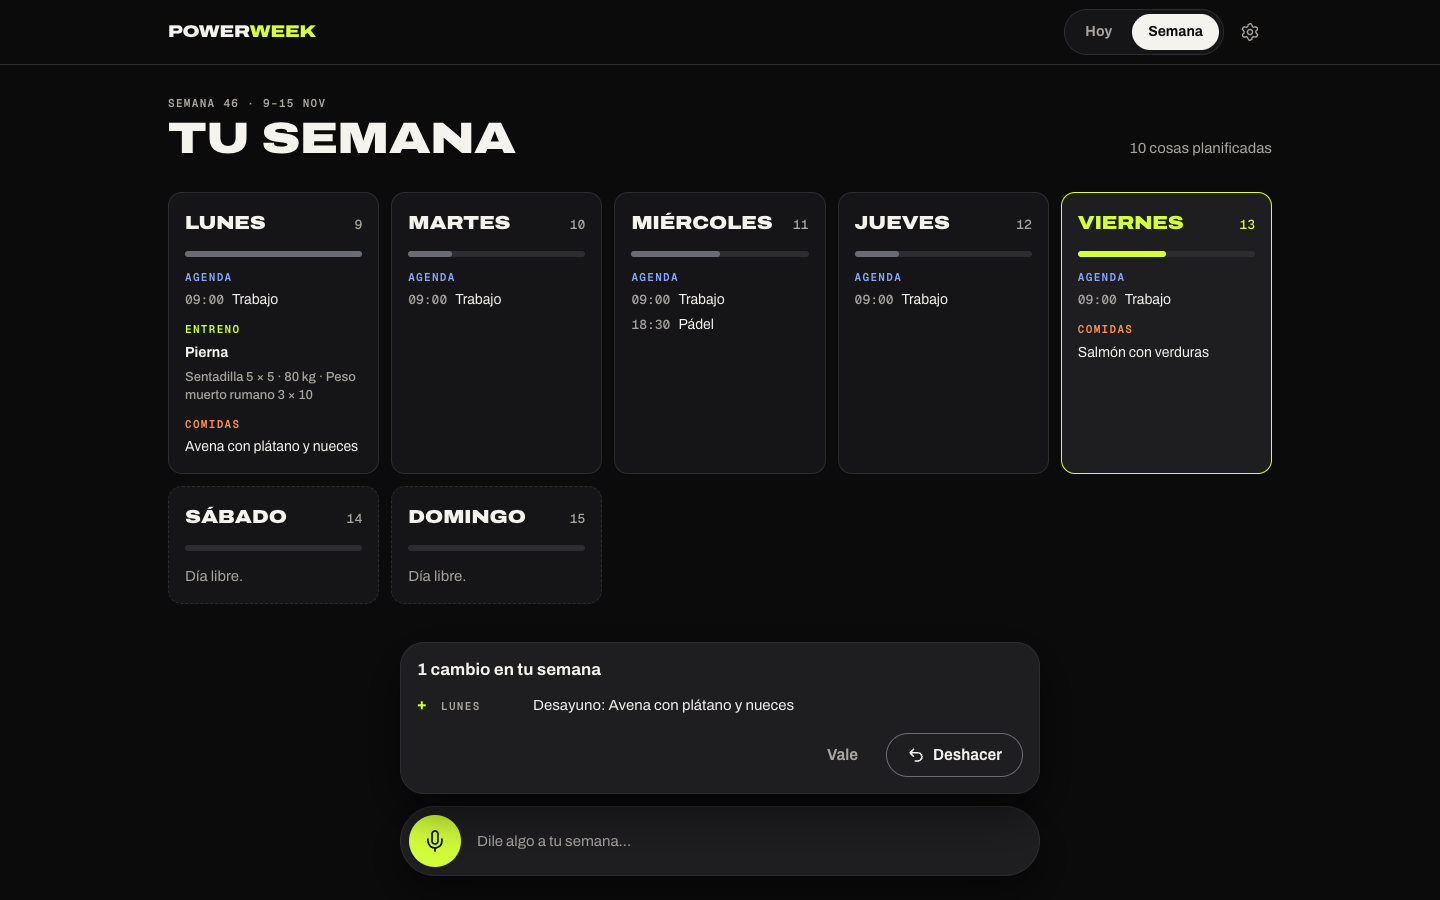
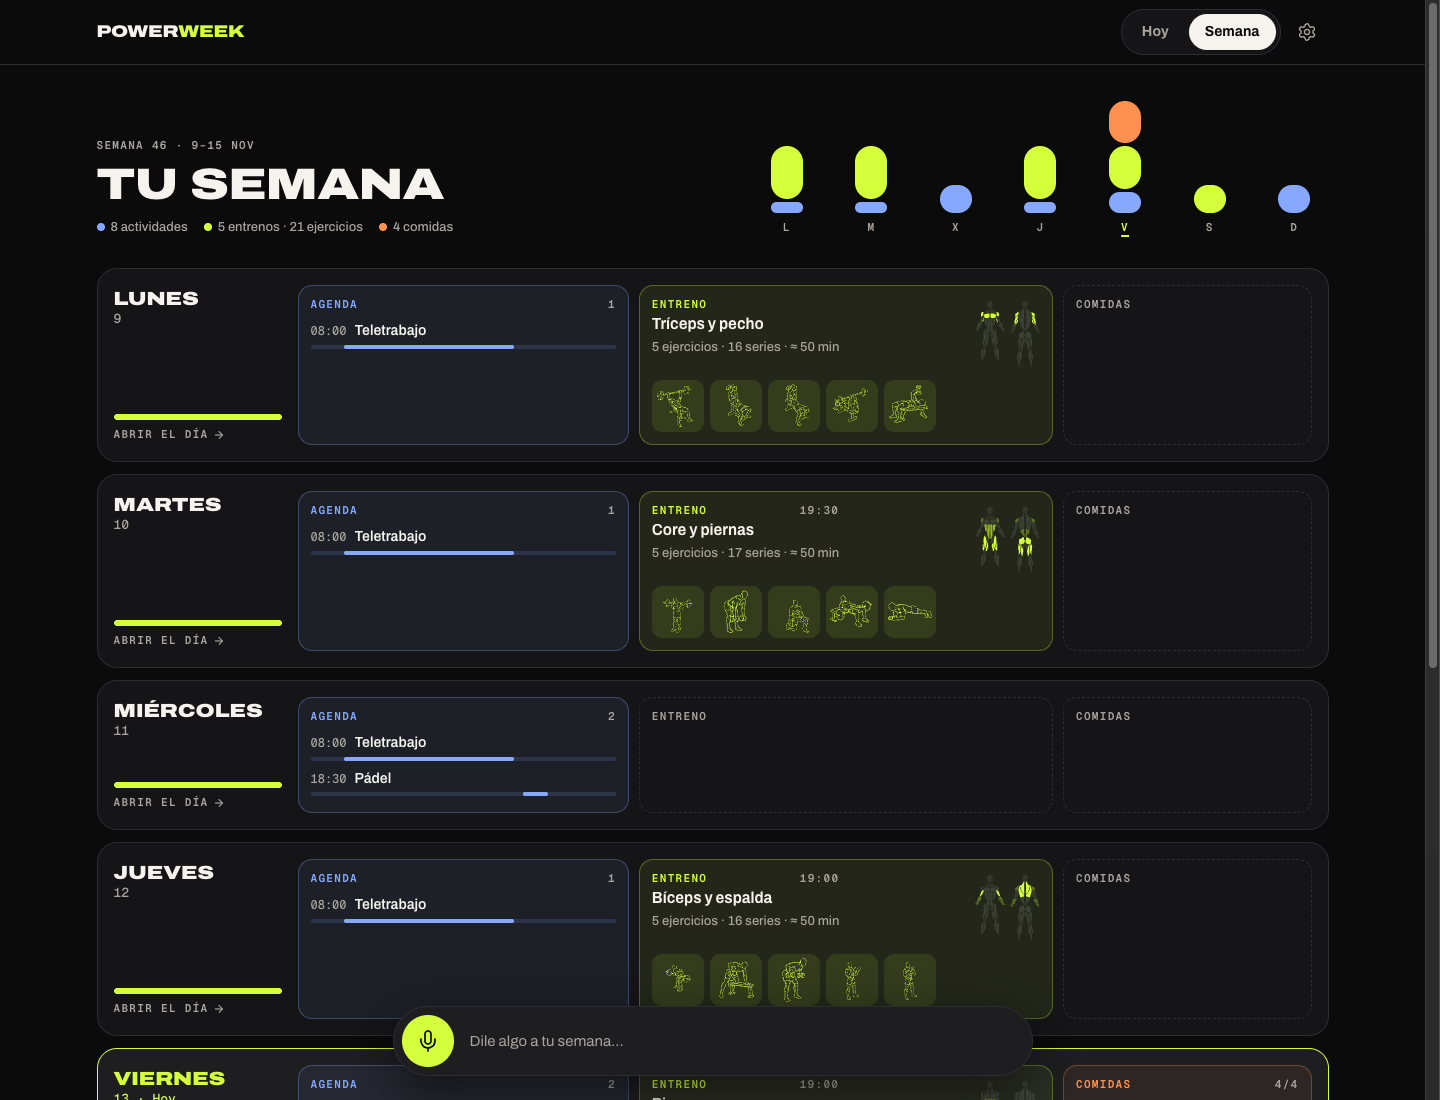
docs: move library ADR, design system components and new screenshots

diff --git a/docs/design-system.md b/docs/design-system.md
@@ -40,12 +40,35 @@ Every text pair passes WCAG AA in both themes; the palette was checked with a co
 
 ## Signature components
 
-| Component                | Where                               | Notes                                                                                        |
-| ------------------------ | ----------------------------------- | -------------------------------------------------------------------------------------------- |
-| Week Pulse               | `components/app/week-pulse.tsx`     | Seven capsules, Monday first, height = day load. Today in volt; pulses while listening       |
-| Voice Dock               | `components/app/voice-dock.tsx`     | The one primary input per screen: orb + field; states idle, listening, thinking              |
-| Change Receipt           | `components/app/change-receipt.tsx` | `+` added, `~` changed, `→` moved, `−` removed; Undo; auto-dismiss unless hovered or focused |
-| Section card + Plan item | `components/app/today-view.tsx`     | Agenda, Training, Fuel; tick = done today                                                    |
+| Component      | Where                                                | Notes                                                                                                                          |
+| -------------- | ---------------------------------------------------- | ------------------------------------------------------------------------------------------------------------------------------ |
+| Week Pulse     | `components/app/week-pulse.tsx`                      | Seven capsules, Monday first, height = day load. Today in volt; pulses while listening                                         |
+| Week Stack     | `components/app/week-stack.tsx`                      | The Week Pulse split by category: agenda (blue), training (volt) and meals (orange) stacked in each capsule                    |
+| Day Bar        | `components/app/day-bar.tsx`                         | The day as one progress bar (06:00–24:00): a volt rail fills with the clock, blocks fill as their own time passes              |
+| Agenda bars    | `components/app/agenda-box.tsx`                      | Timed items are progress bars from start to end with a status (Ahora, En 2 h, Hecho); untimed items keep a round tick          |
+| Fuel gauge     | `components/app/fuel-box.tsx`                        | Four slots that fill orange as meals are planned; the slot due now is ringed                                                   |
+| Training board | `components/app/train-box.tsx`, `exercise-sheet.tsx` | Muscle map + one illustrated tile per exercise, sets drawn as volt pills, one "workout done" button. No per-exercise ticks     |
+| Move art       | `components/app/move-art.tsx`                        | Exercise line drawings used as CSS masks, so they paint in the current colour. Animated: frames 1 → 2 → 3 → 2 with cross-fades |
+| Muscle map     | `components/app/muscle-map.tsx`                      | Low-poly front and back figures; muscles glow in four steps of volt by training volume                                         |
+| Week board     | `components/app/week-view.tsx`, `day-peek.tsx`       | One big box per day with a blue, a volt and an orange box inside, in fixed columns. Hover or press and hold to peek            |
+| Voice Dock     | `components/app/voice-dock.tsx`                      | The one primary input per screen: orb + field; states idle, listening, thinking                                                |
+| Change Receipt | `components/app/change-receipt.tsx`                  | `+` added, `~` changed, `→` moved, `−` removed; Undo; auto-dismiss unless hovered or focused                                   |
+
+### Category colours
+
+Every category keeps one colour everywhere: **Agenda is blue** (`agenda`), **Training is volt** (`train`, the brand colour) and **Meals are orange** (`fuel`). Boxes use a 7 % tint of the colour as ground and a 30 % edge; bars and fills use the full colour with `bg` text on top, which keeps at least 4.5:1 in both themes. The classes live in [`lib/tone.ts`](../apps/web/lib/tone.ts).
+
+### Bars all the way down
+
+The Week Pulse is the model for the whole interface: quantities are drawn as bars that grow. The week grows by load (Week Pulse, Week Stack), the day fills with the clock (Day Bar), each appointment fills from its start to its end, meals fill a four-slot gauge and the sets of an exercise are pills. Prefer a bar to a number, and a number to a sentence.
+
+### Training without ticks
+
+At the gym nobody wants to tick boxes between sets. Exercises are tiles you glance at: the movement drawn, the sets as pills, reps and load in mono. Opening a tile shows the animated movement, its three phases and the muscles it works. The session is marked done once, with one button.
+
+### Exercise illustrations
+
+Drawings come from the move library (see [ADR 0008](adr/0008-move-library.md)): 302 exercises with three frames each, served from `apps/web/public/moves/<slug>/<frame>.svg`. They are masks, never `<img>`, so the brand colour drives them; frame 1 is the still image, and animation only runs on hover, focus or in the exercise sheet (and never with reduced motion). Credits: Workout Guide by Bryl Lim, based on Everkinetic, CC BY-SA 4.0.
 
 ## Voice and copy
 
@@ -53,4 +76,4 @@ Spanish first (tú), English second, same tone: imperative, short and warm. "Dil
 
 ## Motion and accessibility
 
-Bars spring (about 240 ms), everything else eases out in 160–220 ms; `prefers-reduced-motion` turns motion into fades. Touch targets are at least 44 px, icon-only buttons have labels, dialogs use the native `<dialog>` element, and the receipt and notices are live regions.
+Bars spring (about 240 ms), progress fills glide (700 ms), everything else eases out in 160–220 ms; `prefers-reduced-motion` turns motion into fades and stops illustration loops. Hover details appear after 320 ms and never take the pointer; on touch screens a 450 ms press opens the same detail as a bottom sheet, and a normal tap always opens the day. Touch targets are at least 44 px, icon-only buttons have labels, dialogs use the native `<dialog>` element, and the receipt and notices are live regions.

diff --git a/docs/assistant.md b/docs/assistant.md
@@ -18,15 +18,15 @@ The model receives the current plan (with item ids), today's weekday and date, a
 
 The operation catalogue is defined in [`packages/core/src/operations.ts`](../packages/core/src/operations.ts):
 
-| Operation                                              | Effect                                                             |
-| ------------------------------------------------------ | ------------------------------------------------------------------ |
-| `agenda.add` / `agenda.update` / `agenda.remove`       | Timed or untimed items; `update` with `day` moves an item          |
-| `workout.set` / `workout.update` / `workout.clear`     | Create or replace a day's workout, rename it, remove it            |
-| `exercise.add` / `exercise.update` / `exercise.remove` | Single exercises; `add` creates a workout if the day has none      |
-| `meal.set` / `meal.update` / `meal.remove`             | One meal per slot (breakfast, lunch, dinner), any number of snacks |
-| `day.clear`                                            | Clear a day, optionally only some categories                       |
-| `day.copy`                                             | Copy a day (or some categories) onto other days                    |
-| `day.note`                                             | Set or remove a free-text note for a day                           |
+| Operation                                              | Effect                                                                                      |
+| ------------------------------------------------------ | ------------------------------------------------------------------------------------------- |
+| `agenda.add` / `agenda.update` / `agenda.remove`       | Timed or untimed items; `update` with `day` moves an item                                   |
+| `workout.set` / `workout.update` / `workout.clear`     | Create or replace a day's workout, rename it, set its start time, remove it                 |
+| `exercise.add` / `exercise.update` / `exercise.remove` | Single exercises; `add` creates a workout if the day has none; `move` links an illustration |
+| `meal.set` / `meal.update` / `meal.remove`             | One meal per slot (breakfast, lunch, dinner), any number of snacks                          |
+| `day.clear`                                            | Clear a day, optionally only some categories                                                |
+| `day.copy`                                             | Copy a day (or some categories) onto other days                                             |
+| `day.note`                                             | Set or remove a free-text note for a day                                                    |
 
 ## Validation and application
 
@@ -40,6 +40,12 @@ Nothing the model writes reaches the database without passing the zod schema, th
 ## Prompt
 
 The system prompt ([`lib/assistant/prompt.ts`](../apps/web/lib/assistant/prompt.ts)) explains the plan, lists every operation with an example and fixes the rules: change only what was asked, never invent data, use exact ids, expand "weekdays"/"weekend"/"every day" to one operation per day, use 24 h times with natural am/pm defaults, map Spanish meal names to slots, keep titles short and in the user's language, and answer questions with no operations. The reply language follows the interface language.
+
+### Linking exercises to illustrations
+
+The system prompt ends with the move library: 302 slugs grouped by what they train (about 1,500 tokens). For every exercise the model adds `"move"`, the slug of the same movement with the same equipment, or leaves it out for sports and classes. The model only **links** an existing drawing; it never generates images, so the cost per request stays flat.
+
+Unknown slugs are dropped by the operation schema (the exercise is kept), and the app falls back to a deterministic matcher on the exercise name ([`moves-match.ts`](../packages/core/src/moves-match.ts)): Spanish gym vocabulary is translated to the library's English words ("press de banca" → bench press, "jalón" → lat pulldown, "remo inclinado" → bent-over row) and moves are scored by weighted word overlap. Tests pin both the matcher and the catalogue.
 
 ## Model and configuration
 

diff --git a/README.es.md b/README.es.md
@@ -23,15 +23,19 @@
 
 Dices _«Los lunes hago pierna: sentadilla 5×5 con 80 kg y peso muerto rumano 3×10. Entre semana trabajo de 9 a 18 y el miércoles pádel a las 18:30»_ y PowerWeek lo convierte en un plan:
 
-- **Agenda**: actividades con hora para cada día de una semana que se repite.
-- **Entreno**: un entrenamiento por día con series, repeticiones y carga.
-- **Comidas**: desayuno, comida, picoteo y cena.
+- **Agenda** (azul): actividades con hora para cada día de una semana que se repite, dibujadas como barras de progreso que se llenan según avanza el día.
+- **Entreno** (pistacho): un entrenamiento por día con series, repeticiones y carga. Cada ejercicio lleva un dibujo de una librería abierta de 302 movimientos, que enlaza el asistente, y un mapa de los músculos que trabaja la sesión.
+- **Comidas** (naranja): desayuno, comida, picoteo y cena como un indicador de cuatro huecos.
 
-Cada cambio llega con un **recibo** (qué se añade, cambia, mueve o quita) y un botón de **deshacer**. Marcas lo que vas haciendo y el **pulso de la semana** (siete barras tan altas como cargado está cada día) te enseña la semana entera de un vistazo.
+Cada cambio llega con un **recibo** (qué se añade, cambia, mueve o quita) y un botón de **deshacer**. El **pulso de la semana** (siete barras tan altas como cargado está cada día) te enseña la semana entera de un vistazo, y la **barra del día** se va llenando de la mañana a la medianoche.
 
-| Hoy (móvil)                                      | Recibo de cambios                                  | Semana                                   |
-| ------------------------------------------------ | -------------------------------------------------- | ---------------------------------------- |
-| ![Hoy en el móvil](docs/images/today-mobile.png) | ![Recibo tras un comando](docs/images/receipt.png) | ![Tablero semanal](docs/images/week.png) |
+![Hoy: la barra del día, la agenda en barras, las comidas y un entreno ilustrado](docs/images/today.png)
+
+| Hoy (móvil)                                      | Detalle de un ejercicio                                            | Tablero semanal                          |
+| ------------------------------------------------ | ------------------------------------------------------------------ | ---------------------------------------- |
+| ![Hoy en el móvil](docs/images/today-mobile.png) | ![Un ejercicio animado con sus músculos](docs/images/exercise.png) | ![Tablero semanal](docs/images/week.png) |
+
+![Al pasar el ratón por una caja de la semana aparece todo su detalle](docs/images/week-peek.png)
 
 En español e inglés, con tema oscuro («Noche») y claro («Día»), instalable como PWA y sin necesidad de cuenta para empezar: la sesión anónima se convierte en cuenta cuando añades tu email.
 
@@ -70,4 +74,4 @@ Las issues y pull requests son bienvenidas: empieza por [CONTRIBUTING.md](CONTRI
 
 ## Licencia
 
-[MIT](LICENSE) © 2026 TUKK Team.
+[MIT](LICENSE) © 2026 TUKK Team. Ilustraciones de ejercicios: [Workout Guide](https://github.com/bryllim/workout-guide), de Bryl Lim, basadas en [Everkinetic](https://github.com/everkinetic/data), con licencia [CC BY-SA 4.0](https://creativecommons.org/licenses/by-sa/4.0/). Más en [THIRD_PARTY_NOTICES.md](THIRD_PARTY_NOTICES.md).

diff --git a/README.md b/README.md
@@ -30,15 +30,19 @@
 
 You say _"Mondays are leg day: squats 5×5 at 80 kg and Romanian deadlifts 3×10. Work 9 to 6 on weekdays, padel on Wednesday at 6:30 pm"_ and PowerWeek turns it into a plan:
 
-- **Agenda**: timed items for each day of a recurring week.
-- **Training**: one workout per day with sets, reps and load.
-- **Fuel**: breakfast, lunch, snack and dinner.
+- **Agenda** (blue): timed items for each day of a recurring week, drawn as progress bars that fill as the day goes by.
+- **Training** (volt): one workout per day with sets, reps and load. Every exercise gets a drawing from an open library of 302 illustrated moves, linked by the assistant, plus a muscle map of what the session works.
+- **Fuel** (orange): breakfast, lunch, snack and dinner as a four-slot gauge.
 
-Every change arrives with a **Change Receipt** (what was added, changed, moved or removed) and one-tap **Undo**. You tick things off as you go, and the **Week Pulse**, seven bars as tall as each day is busy, keeps the whole week in view.
+Every change arrives with a **Change Receipt** (what was added, changed, moved or removed) and one-tap **Undo**. The **Week Pulse**, seven bars as tall as each day is busy, keeps the whole week in view, and the **Day Bar** shows the day itself filling up from morning to midnight.
 
-| Today (mobile)                                    | Change Receipt                                            | Week                                |
-| ------------------------------------------------- | --------------------------------------------------------- | ----------------------------------- |
-| ![Today on a phone](docs/images/today-mobile.png) | ![Receipt after a voice command](docs/images/receipt.png) | ![Week board](docs/images/week.png) |
+![Today: the Day Bar, agenda bars, the fuel gauge and an illustrated workout](docs/images/today.png)
+
+| Today (mobile)                                    | Exercise detail                                                      | Week board                          |
+| ------------------------------------------------- | -------------------------------------------------------------------- | ----------------------------------- |
+| ![Today on a phone](docs/images/today-mobile.png) | ![An exercise, animated, with its muscles](docs/images/exercise.png) | ![Week board](docs/images/week.png) |
+
+![Hovering a box on the week board shows everything in it](docs/images/week-peek.png)
 
 Spanish and English, dark ("Night") and light ("Day") themes, installable as a PWA, and no account needed to start (anonymous sessions you can upgrade with an email later).
 
@@ -122,4 +126,4 @@ Issues and pull requests are welcome. Start with [CONTRIBUTING.md](CONTRIBUTING.
 
 ## Licence
 
-[MIT](LICENSE) © 2026 TUKK Team. The Archivo font bundled for social images is under the [SIL Open Font License](apps/web/assets/fonts/OFL.txt).
+[MIT](LICENSE) © 2026 TUKK Team. The Archivo font bundled for social images is under the [SIL Open Font License](apps/web/assets/fonts/OFL.txt). Exercise illustrations: [Workout Guide](https://github.com/bryllim/workout-guide) by Bryl Lim, based on [Everkinetic](https://github.com/everkinetic/data), [CC BY-SA 4.0](https://creativecommons.org/licenses/by-sa/4.0/). See [THIRD_PARTY_NOTICES.md](THIRD_PARTY_NOTICES.md).

diff --git a/docs/adr/0008-move-library.md b/docs/adr/0008-move-library.md
@@ -1,0 +1,24 @@
+# 0008 · Exercise illustrations come from an open library the assistant links to
+
+Date: 2026-11-13 · Status: Accepted
+
+## Context
+
+Training should be something you glance at between sets, not a checklist: each exercise needs a drawing and its muscles. Generating an image per exercise with a model would be slow, inconsistent and expensive. Drawing 300 exercises ourselves is a project of its own.
+
+We compared the open options: Everkinetic (about 100 drawings, CC BY-SA), wger (large, mixed photos and drawings under various licenses), free-exercise-db (photos), icon sets (too generic) and Workout Guide by Bryl Lim: 302 exercises, three frames each, one consistent line style built on Everkinetic, MIT code and CC BY-SA 4.0 artwork, with a manifest of names, equipment and muscles.
+
+## Decision
+
+- Import Workout Guide at a pinned commit with `pnpm moves` ([scripts/moves.mjs](../../scripts/moves.mjs)): SVGO shrinks the 906 frames from 24.7 MB to 5.9 MB, they are served from `apps/web/public/moves/<slug>/<frame>.svg`, and the catalogue becomes `packages/core/src/moves-data.ts`.
+- Render frames as CSS masks so they take the brand colour in both themes; animate the three frames only on hover, focus or in the exercise sheet.
+- Store an optional `move` slug on each exercise. The assistant chooses it from the catalogue in its prompt; a deterministic name matcher covers older plans, manual edits and model omissions.
+- Draw muscles with low-poly body outlines from react-body-highlighter (MIT), lit by training volume.
+- Keep attribution in [THIRD_PARTY_NOTICES.md](../../THIRD_PARTY_NOTICES.md), `apps/web/public/moves/README.md`, the exercise sheet and Settings.
+
+## Consequences
+
+- No per-request image cost: the model emits a slug, the browser loads a cached 5–20 KB SVG.
+- The artwork keeps its CC BY-SA 4.0 license (adaptations included); the rest of the code stays MIT.
+- Frames from the upstream library are not always drawn at the same scale, so animations can "breathe"; a future brand redraw can keep the same slugs and file layout.
+- Adding a move means updating the upstream commit (or adding our own frames) and re-running `pnpm moves`; slugs in stored plans must stay stable.

diff --git a/docs/data-model.md b/docs/data-model.md
@@ -14,8 +14,16 @@ A user has **one recurring weekly plan**: seven days, Monday first, with no date
       "agenda": [{ "id": "k3f9…", "title": "Work", "time": "09:00", "endTime": "18:00" }],
       "workout": {
         "title": "Leg day",
+        "time": "19:00", // optional start, places the session on the day timeline
         "exercises": [
-          { "id": "p1x…", "name": "Back squat", "sets": 5, "reps": "5", "load": "80 kg" },
+          {
+            "id": "p1x…",
+            "name": "Back squat",
+            "sets": 5,
+            "reps": "5",
+            "load": "80 kg",
+            "move": "squat", // optional: illustration and muscles from the move library
+          },
         ],
       },
       "meals": [{ "id": "m8q…", "slot": "breakfast", "title": "Oatmeal with banana" }],
@@ -30,6 +38,10 @@ A user has **one recurring weekly plan**: seven days, Monday first, with no date
 The shape is defined once in [`packages/core/src/plan.ts`](../packages/core/src/plan.ts) (zod) and exported as JSON Schema ([`packages/core/schema/plan.schema.json`](../packages/core/schema/plan.schema.json)). Postgres enforces it with `CHECK (plan_doc_is_valid(doc))` using `pg_jsonschema`. `plan-schema.test.ts` fails if the zod schema, the committed JSON Schema and the latest migration drift apart.
 
 Limits (also in the schema): 40 agenda items, one workout of up to 30 exercises and 12 meals per day; titles up to 140 characters.
+
+`move` is a slug from the move library ([`packages/core/src/moves.ts`](../packages/core/src/moves.ts), 302 exercises). The assistant writes it; when it is missing or unknown, `resolveMove` matches the exercise name (Spanish or English) instead, so older plans and manual edits get illustrations too. Renaming an exercise without restating its `move` drops the old one.
+
+Completions (`completions` table) are per date and item id. Untimed agenda items are ticked by hand; timed items show progress from the clock instead; a whole workout is marked done with the item id `workout`.
 
 ## Tables
 

diff --git a/AGENTS.md b/AGENTS.md
@@ -4,8 +4,8 @@ Instructions for AI coding agents (and humans in a hurry) working in this reposi
 
 ## Map
 
-- `apps/web`: Next.js 16 app. Landing at `app/[lang]/page.tsx`, the app shell and views in `components/app`, the assistant route in `app/api/assistant/route.ts`.
-- `packages/core`: plan schema (zod), operations, the pure `applyOperations` reducer and calendar helpers. Most logic belongs here, with tests.
+- `apps/web`: Next.js 16 app. Landing at `app/[lang]/page.tsx`, the app shell and views in `components/app`, the assistant route in `app/api/assistant/route.ts`. Exercise illustrations in `public/moves` (generated, CC BY-SA 4.0).
+- `packages/core`: plan schema (zod), operations, the pure `applyOperations` reducer, calendar and timeline helpers, and the move library (`moves.ts`; `moves-data.ts` is generated by `pnpm moves` from `scripts/moves.mjs`). Most logic belongs here, with tests.
 - `packages/design-tokens`: `tokens.json` → `tokens.css`. Do not edit `tokens.css` by hand.
 - `supabase`: migrations (never edit an applied one), pgTAP tests, `config.toml` (auth as code).
 - `docs`: architecture, data model, assistant, native strategy, ADRs. Update them when behaviour changes.

diff --git a/docs/development.md b/docs/development.md
@@ -50,6 +50,7 @@ supabase test db             # run the pgTAP tests
 | `pnpm test`                          | Unit tests (core reducer and schema, web parser, prompt, i18n and formatting) |
 | `pnpm --filter @powerweek/web e2e`   | Playwright smoke tests (build first with `pnpm build`)                        |
 | `pnpm tokens`                        | Regenerate `tokens.css` from `tokens.json`                                    |
+| `pnpm moves`                         | Re-import the exercise illustrations and catalogue (needs network)            |
 | `pnpm --filter @powerweek/web icons` | Regenerate app icons from the mark                                            |
 | `pnpm db:types`                      | Regenerate `database.types.ts` from the linked project                        |
 

diff --git a/docs/adr/README.md b/docs/adr/README.md
@@ -11,3 +11,4 @@ Short records of decisions that shape the codebase: the context, the decision an
 | [0005](0005-prefixed-i18n-routes.md)             | Language-prefixed routes and typed dictionaries without an i18n library | Accepted |
 | [0006](0006-design-tokens-single-source.md)      | The design system's tokens.json is the single source for styling        | Accepted |
 | [0007](0007-monorepo-pnpm-workspaces.md)         | pnpm workspaces monorepo: apps and shared packages                      | Accepted |
+| [0008](0008-move-library.md)                     | Exercise illustrations from an open library that the assistant links to | Accepted |
